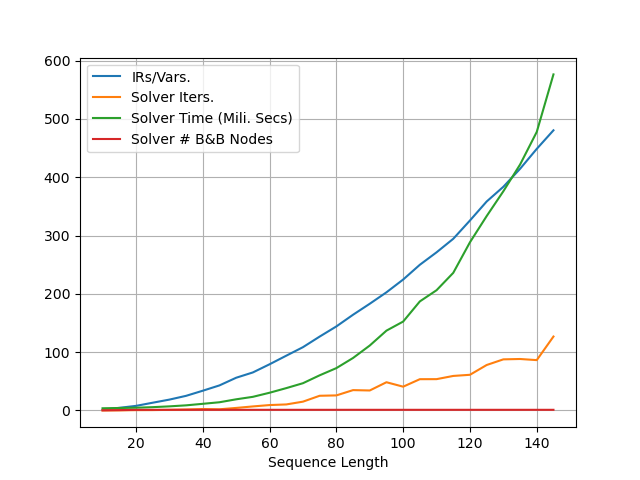
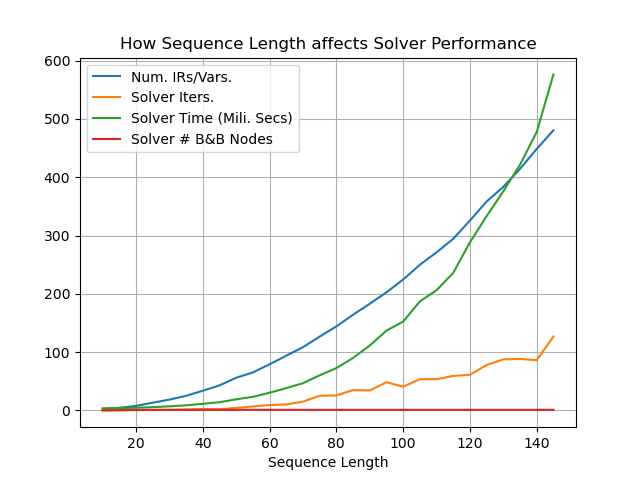
Added edit distance simlarity eval and fixed n vars to n consts comparision

Changed region(s): [[0.1875, 0.0625, 0.8438, 0.125], [0.1875, 0.1562, 0.375, 0.1875]]

diff --git a/src/perf_analysis.py b/src/perf_analysis.py
@@ -1,27 +1,60 @@
 import pandas as pd
 import matplotlib.pyplot as plt
+import Levenshtein as lv
+import numpy as np
 
 df = pd.read_csv("performance.csv")
 
-avg_df = df.groupby("seq_length").mean()
+# Sequence length vs. similarity between our and rnalibs preds
+mean_lv_distances = []
+# mean_hamm_distances = []
+for s_len in df.seq_length.unique():
+    s_len_df = df[df.seq_length==s_len]
 
+    lv_distances = list(map(lv.ratio, s_len_df.our_shape_preds, s_len_df.rnalib_shape_preds))
+    # hamm_distances = list(map(lv.hamming, s_len_df.our_shape_preds, s_len_df.rnalib_shape_preds))
+
+    mean_lv_distances.append(np.mean(lv_distances))
+    # mean_hamm_distances.append(np.mean(lv_distances))
+
+plt.plot(df.seq_length.unique(), mean_lv_distances, label='Normalised Levenshtein Distance')
+# plt.plot(df.seq_length.unique(), mean_hamm_distances, label='Hamming Distance')
+plt.legend()
+plt.grid()
+plt.title('Simlarity between Our Predictions and RNAlib\'s')
+plt.xlabel('Sequence Length')
+plt.ylabel('Avg. sim(RNAlib_pred, our_pred)')
+plt.savefig('edit_distance.png')
+plt.show()
+
+avg_df = df.groupby("seq_length").mean(numeric_only=True)
 
 # Sequence length vs. num vars/solver iters/solver time
-plt.plot(df.seq_length.unique(), avg_df.num_irs, label='IRs/Vars.')
+plt.plot(df.seq_length.unique(), avg_df.num_irs, label='Num. IRs/Vars.')
 plt.plot(df.seq_length.unique(), avg_df.num_solver_iters, label='Solver Iters.')
 plt.plot(df.seq_length.unique(), avg_df.solution_time_msecs, label='Solver Time (Mili. Secs)')
 plt.plot(df.seq_length.unique(), avg_df.num_b_n_b_nodes, label='Solver # B&B Nodes')
 plt.legend()
 plt.grid()
+plt.title('How Sequence Length affects Solver Performance')
 plt.xlabel('Sequence Length')
 plt.savefig('seq_len_vs.png')
 plt.show()
 
-# Sequence length vs. num constraints
-plt.plot(df.seq_length.unique(), avg_df.num_constraints, label='Constraints')
-plt.legend()
+# num variables vs. num constraints
+n_irs_w_means = []
+for n_irs in df.num_irs.unique():
+    n_irs_df = df[df.num_irs==n_irs]
+    n_irs_mean = np.mean(n_irs_df.num_constraints)
+
+    n_irs_w_means.append((n_irs, n_irs_mean))
+    # print(f'For n_irs = {n_irs}, we have {len(n_irs_df)} rows, averaging to {n_irs_mean}')
+n_irs_w_means.sort(key=lambda x: x[0])
+
+plt.plot([x[0] for x in n_irs_w_means], [x[1] for x in n_irs_w_means])
 plt.grid()
-plt.xlabel('Sequence Length')
+plt.title('Number of Constraints Generated from Found IRs')
+plt.xlabel('# Variables/IRs')
 plt.ylabel('# Constraints')
 plt.savefig('seq_len_vs_constraints.png')
 plt.show()
@@ -34,5 +67,7 @@ fig, ax = plt.subplots()
 ax.boxplot(mfe_data, labels=['RNAlib MFEs', 'Our MFEs'])
 
 ax.title.set_text('MFE of Final Solution')
+plt.ylabel('MFE (kcal/mol)')
 plt.savefig('us_vs_rnalib_mfe.png')
 plt.show()
+
